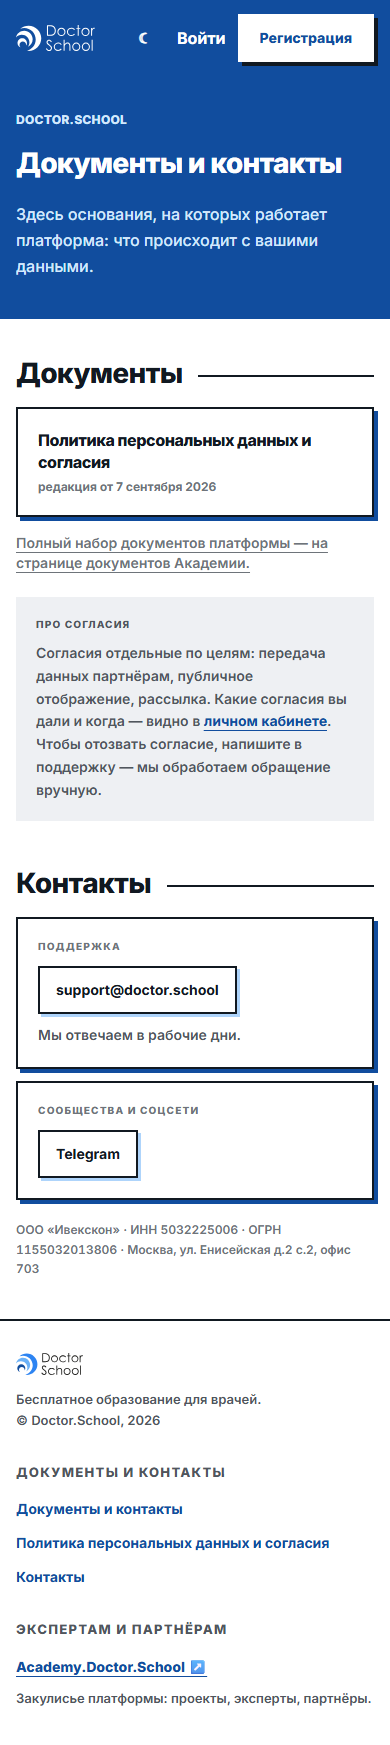
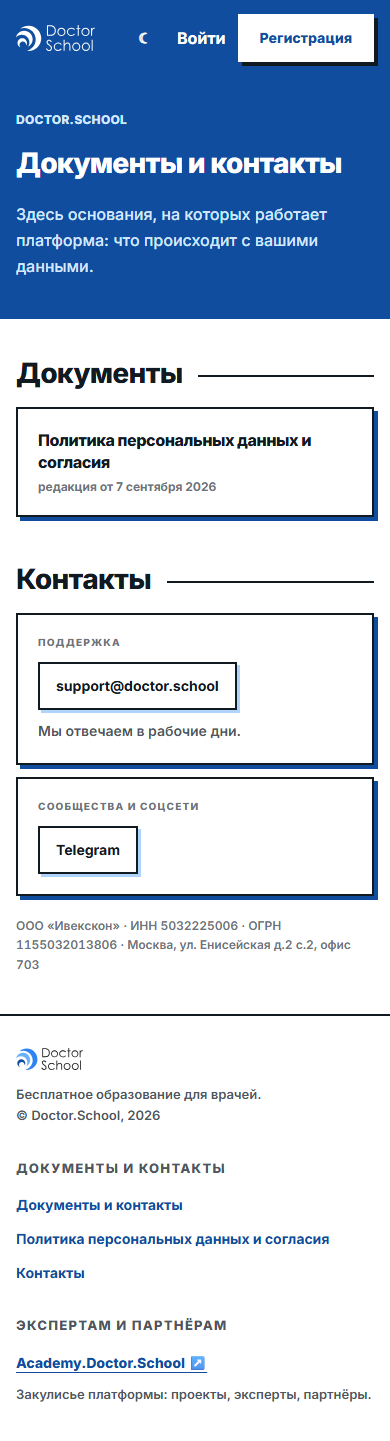
fix(1967): 028 — drop the Academy caption (EARS-6 rewritten) and the consents block per owner Stage-B round 1
The owner drove http://localhost:3404/documents on 2026-09-07 and rejected two
blocks of the doctor documents surface:

1. the closing caption «Полный набор документов платформы — на странице
   документов Академии.» contradicts the single-Academy-link rule (REQ-24) —
   the footer link is the only crossing the storefront gets;
2. the «Про согласия» explainer lies — nothing about consents is visible in the
   cabinet in this release, and the page should not invite a withdrawal.

EARS-6 is rewritten INLINE (EN + RU, scenario, design note): the clause outlived
its premise and the decision is not in production, so it is replaced rather than
amended. It now states the list carries NO caption or link to the Academy, and
its test keeps the EARS-6 id asserting that absence. REQ-24's third placement is
withdrawn across the two-site-ia brief, canvas reconciliation and functional map,
and 028-product records the reversal.

The canvas `design-source/doctor-docs.dc.html` is untouched — the owner's live
verdict supersedes what it draws at L139 and in `d-docs · согласия`.

UI evidence re-captured against a warm doctor standalone stand (:3404, api
:3400): 14/14 driver checks pass.

Refs #1967
Claude-Session: https://claude.ai/code/session_01E8h4jBnktxDeLbZ8io1Nej

diff --git a/apps/doctor/app/(storefront)/documents/page.tsx b/apps/doctor/app/(storefront)/documents/page.tsx
@@ -1,5 +1,4 @@
 import type { Metadata } from "next";
-import NextLink from "next/link";
 
 import { listDocuments } from "@ds/legal-content";
 import {
@@ -12,7 +11,6 @@ import { LegalDocumentList } from "@ds/design-system/legal-document";
 import { ContactChip } from "@ds/design-system/contact-chip";
 
 import { SectionHeading } from "@/components/section-heading";
-import { academyHref } from "@/lib/academy";
 import {
   CONTACT_CHANNELS,
   REQUISITES_LINE,
@@ -40,16 +38,12 @@ export const metadata: Metadata = {
 };
 
 /**
- * EARS-6, verbatim from the canvas (L139). It is the THIRD and last placement
- * REQ-24 allows for an Academy crossing on this storefront (the footer link,
- * «Стать экспертом», this caption) — which is also why the canvas third contacts
- * card «Клиникам и организациям», a fourth Academy link, is not rendered below.
- * The destination is the Academy documents list shipping in #1968, this wave.
+ * EARS-6 — this list carries NO caption and NO link to the Academy documents
+ * page. The owner's Stage-B verdict (2026-09-07) is that the storefront keeps
+ * exactly ONE Academy crossing, the footer link (REQ-24): a second exit from
+ * this page contradicts it, so the caption the canvas drew at L139 is
+ * superseded by that live decision and is not rendered.
  */
-const ACADEMY_CAPTION =
-  "Полный набор документов платформы — на странице документов Академии.";
-
-const ACADEMY_DOCUMENTS_HREF = academyHref("/documents");
 
 interface PolicyRows {
   readonly rows: LegalDocumentNeighbour[];
@@ -134,45 +128,6 @@ export default function DoctorDocumentsPage() {
           ) : (
             <LegalDocumentList items={rows} data-testid="documents-list" />
           )}
-
-          <p className="mt-4 text-sm font-semibold text-faint">
-            <a
-              data-testid="documents-academy-caption"
-              href={ACADEMY_DOCUMENTS_HREF}
-              target="_blank"
-              rel="noopener noreferrer"
-              className="underline underline-offset-4 hover:text-primary-action focus-visible:text-primary-action"
-            >
-              {ACADEMY_CAPTION}
-            </a>
-          </p>
-
-          {/* «Про согласия» — an explanation, not a control (canvas
-              `d-docs · согласия`): this surface never toggles a consent. */}
-          <div
-            data-testid="documents-consents-note"
-            className="mt-6 bg-section p-5"
-          >
-            {/* `text-muted-foreground`, not the canvas `inkFaint`: on the grey
-                plate that faint tone fails WCAG AA contrast (axe
-                `color-contrast`), and the fix belongs to the surface, not to
-                the scan (EARS-15). */}
-            <p className="mb-2.5 text-2xs font-extrabold tracking-micro text-muted-foreground uppercase">
-              Про согласия
-            </p>
-            <p className="max-w-prose text-sm leading-relaxed font-semibold text-muted-foreground">
-              Согласия отдельные по целям: передача данных партнёрам, публичное
-              отображение, рассылка. Какие согласия вы дали и когда — видно в{" "}
-              <NextLink
-                href="/account"
-                className="font-bold text-primary-action underline underline-offset-4"
-              >
-                личном кабинете
-              </NextLink>
-              . Чтобы отозвать согласие, напишите в поддержку — мы обработаем
-              обращение вручную.
-            </p>
-          </div>
         </section>
 
         <section id="contacts" aria-labelledby="contacts-heading">

diff --git a/apps/doctor/app/(storefront)/documents/page.test.tsx b/apps/doctor/app/(storefront)/documents/page.test.tsx
@@ -103,20 +103,29 @@ describe("028 #1967: the doctor documents index", () => {
     expect(html).not.toMatch(/Лицензи/i);
   });
 
-  it("028 EARS-6: the list closes with the Academy documents caption, linking to the Academy page", () => {
+  it("028 EARS-6: the list carries no caption and no link to the Academy documents page", () => {
     const html = renderToStaticMarkup(<DoctorDocumentsPage />);
 
-    expect(html).toContain(
+    expect(html).not.toContain(
       "Полный набор документов платформы — на странице документов Академии.",
     );
-    expect(html).toContain('href="https://academy.doctor.school/documents"');
-    // REQ-24 allows three Academy placements on this storefront and the footer
-    // owns one of them; this page contributes exactly ONE, not the canvas
-    // «Клиникам и организациям» card as well.
-    const crossings = html.match(/academy\.doctor\.school/g) ?? [];
-    expect(crossings, "Academy crossings contributed by the page").toHaveLength(
-      1,
-    );
+    expect(html).not.toContain('data-testid="documents-academy-caption"');
+    // REQ-24 keeps exactly ONE Academy crossing on this storefront and the
+    // footer owns it (owner Stage-B verdict, 2026-09-07): this page contributes
+    // none — neither the caption nor the canvas «Клиникам и организациям» card.
+    expect(html).not.toContain("academy.doctor.school");
+  });
+
+  it("028 #1967: the index carries no «Про согласия» explainer", () => {
+    const html = renderToStaticMarkup(<DoctorDocumentsPage />);
+
+    // The canvas `d-docs · согласия` block claimed consents are visible in the
+    // cabinet and invited a withdrawal by support ticket. Neither is true of
+    // this release, so the owner's Stage-B verdict (2026-09-07) drops the block
+    // rather than softening its copy.
+    expect(html).not.toContain('data-testid="documents-consents-note"');
+    expect(html).not.toContain("Про согласия");
+    expect(html).not.toContain('href="/account"');
   });
 
   it("028 EARS-12: an empty document set renders no rows and no placeholder", () => {

diff --git a/apps/doctor/e2e/documents.spec.ts b/apps/doctor/e2e/documents.spec.ts
@@ -35,19 +35,19 @@ test.describe("028 V-3: documents index and document page", () => {
     );
   });
 
-  test("028 EARS-6: the index closes with the Academy documents caption", async ({
+  test("028 EARS-6: the index carries no Academy caption and no Academy link", async ({
     page,
   }) => {
     await page.goto("/documents");
 
-    const caption = page.getByTestId("documents-academy-caption");
-    await expect(caption).toHaveText(
-      "Полный набор документов платформы — на странице документов Академии.",
-    );
-    await expect(caption).toHaveAttribute(
-      "href",
-      "https://academy.doctor.school/documents",
-    );
+    await expect(page.getByTestId("documents-academy-caption")).toHaveCount(0);
+    // The shell footer link is the ONE Academy crossing REQ-24 allows, so the
+    // scope is the page body: `main` must contribute no second exit.
+    await expect(page.locator('main a[href*="academy.doctor.school"]')).toHaveCount(0);
+    await expect(page.locator('footer a[href*="academy.doctor.school"]')).toHaveCount(1);
+    // The «Про согласия» explainer went with it (owner Stage-B, 2026-09-07):
+    // nothing on this surface describes or offers to withdraw a consent.
+    await expect(page.getByTestId("documents-consents-note")).toHaveCount(0);
   });
 
   test("028 EARS-7: opening the policy from the index shows it and both back links return to the list", async ({

diff --git a/apps/docs/content/specs/features/028-legal-pages/028-product-ru.md b/apps/docs/content/specs/features/028-legal-pages/028-product-ru.md
@@ -137,7 +137,7 @@ lang: ru
 - **Строка ссылки на документ** (`d-docs · документы`): название + необязательный чип «обновлено» + пояснение + «редакция от <дата>» + →. Видимый читателю маркер версии — это дата редакции плюс этот чип; числовой номер версии не нарисован.
 - **Пояснение про согласия** (`d-docs · согласия`, «Про согласия»): согласия раздельны по назначению — данные партнёрам, публичный показ, рассылки, — а что и когда дано, видно в личном кабинете, на который блок ссылается. Только пояснение; согласиями на этой странице не управляют.
 - **Контакты — каналы, без формы** (`d-docs · контакты` / `a-docs · контакты`): `support@doctor.school` / `academy@doctor.school` как mailto плюс чипы Telegram / ВКонтакте / YouTube. На странице врача есть выход «клиникам и организациям → Academy.Doctor.School ↗»; `a-docs · выходы` несёт два выхода CJM (Инвесторам → `#a-invest`, Экспертам → `#a-apply`).
-- **Список документов врача заканчивается выходом на страницу документов Академии (решено).** В решённом варианте Б канвас врача закрывает список (`d-docs · документы`) подписью «Полный набор документов платформы — на странице документов Академии.»: хост врача показывает только свою проекцию, а полный общий юридический набор читается на странице Академии. На канвасе Академии парной подписи нет. Эта подпись — **третье разрешённое размещение врач→Академия**, наряду со ссылкой в подвале витрины и «Стать экспертом» в кабинете — REQ-24 дополняется этим же коммитом; подпись строится как нарисовано.
+- **В списке документов врача нет выхода на Академию (решено).** Канвас врача закрывает список (`d-docs · документы`) подписью со ссылкой на страницу документов Академии — и эта подпись **не строится**: по живому решению владельца у витрины остаётся **ровно одна** ссылка на Академию, в футере (REQ-24), и второй выход с этой страницы ей противоречит. На канвасе Академии парной подписи тоже нет. Поэтому REQ-24 сохраняет два размещения — ссылку в подвале витрины и «Стать экспертом» в кабинете.
 - **Реквизиты — одна бледная табличная строка** внизу страницы (`· реквизиты`): «<юрлицо> · ИНН … · Лицензия на образовательную деятельность № …». На канвасе стоит юрлицо-заглушка; содержимое — решение владельца, записанное выше (ООО «Ивекскон»), вёрстка — решение канваса. В R1 строка выглядит как «<юрлицо> · ИНН … · ОГРН … · <адрес>»; номер лицензии присоединяется к ней во втором срезе, когда решится Q-31.
 - **Блок лицензии — это строка списка документов**, а не отдельная панель, плюс номер лицензии в строке реквизитов. Пояснение на канвасе врача: «На её основании Doctor.School выдаёт сертификаты и передаёт сведения в НМО»; комментарий на экране Академии: `Q-31: лицензиат и эмитент — сама платформа, без оговорок`. Формулировка Q-31 остаётся вводом владельца/юриста; вёрстка решена. Отложено во второй срез (владелец, 2026-09-06: «Данных лицензии нет, не выводим её сейчас!»).
 - **Точка входа в подвале есть в обеих оболочках.** `d-docs · футер` ссылается на «Пользовательское соглашение», «Политику обработки персональных данных» и «Контакты»; `a-docs · футер` несёт навигационную ссылку «Документы и контакты» и «doctor.school — врачам». В R1 подвал ссылается только на то, что в R1 опубликовано: ссылка на «Пользовательское соглашение» появляется вместе со своим документом, во втором срезе.

diff --git a/apps/docs/content/specs/features/028-legal-pages/028-product.md b/apps/docs/content/specs/features/028-legal-pages/028-product.md
@@ -137,7 +137,7 @@ What is being replaced is not a working surface. The legacy site's legal routes 
 - **Document-link row unit** (`d-docs · документы`): title + optional «обновлено» chip + note + «редакция от <дата>» + →. The reader-visible version marker IS the edition date plus that chip; no numeric version number is drawn.
 - **Consents explainer** (`d-docs · согласия`, «Про согласия»): consents are separate by purpose — partner data, public display, mailing — and what was given and when is visible in the cabinet, which the block links. Explanation only; consents are not managed on this page.
 - **Contacts are channels, no form** (`d-docs · контакты` / `a-docs · контакты`): `support@doctor.school` / `academy@doctor.school` as mailto, plus Telegram / ВКонтакте / YouTube chips. The doctor page carries a «клиникам и организациям → Academy.Doctor.School ↗» exit; `a-docs · выходы` carries the two CJM exits (Инвесторам → `#a-invest`, Экспертам → `#a-apply`).
-- **The doctor documents list ends with an exit to the Academy documents page (decided).** In the decided variant Б the doctor canvas closes the list (`d-docs · документы`) with the caption «Полный набор документов платформы — на странице документов Академии.»: the doctor host lists only its own projection, and the full shared legal set is read on the Academy page. The Academy canvas draws no counterpart. This caption is the **third allowed doctor→Academy placement**, alongside the storefront footer link and «Стать экспертом» in the cabinet — REQ-24 is amended in the same commit to name it; build the caption as drawn.
+- **The doctor documents list carries no exit to the Academy (decided).** The doctor canvas closes the list (`d-docs · документы`) with a caption naming the Academy documents page, and that caption is **not built**: the owner's live verdict is that the storefront keeps **exactly one** Academy link, the footer one (REQ-24), so a second exit from this page contradicts it. The Academy canvas draws no counterpart either. REQ-24 therefore stays at its two placements — the storefront footer link and «Стать экспертом» in the cabinet.
 - **Requisites are one faint tabular line** at the foot of the page (`· реквизиты`): «<юрлицо> · ИНН … · Лицензия на образовательную деятельность № …». The canvas placeholder names another entity; the CONTENT is the owner decision recorded above (ООО «Ивекскон»), the LAYOUT is the canvas decision. In R1 the line reads «<юрлицо> · ИНН … · ОГРН … · <адрес>» only; the licence number joins it in slice 2 once Q-31 is settled.
 - **The licence block is a documents-list row**, not a separate panel — plus the licence number in the requisites line. Canvas note (doctor): «На её основании Doctor.School выдаёт сертификаты и передаёт сведения в НМО»; canvas comment on the Academy screen: `Q-31: лицензиат и эмитент — сама платформа, без оговорок`. The Q-31 wording stays an owner/lawyer input; the layout is settled. Deferred to slice 2 (owner, 2026-09-06: «Данных лицензии нет, не выводим её сейчас!»).
 - **Both shells carry a footer entry point.** `d-docs · футер` links «Пользовательское соглашение», «Политика обработки персональных данных» and «Контакты»; `a-docs · футер` carries the «Документы и контакты» nav link and «doctor.school — врачам». In R1 the footer links only what R1 publishes — the «Пользовательское соглашение» link appears with its document, in slice 2.

diff --git a/apps/docs/content/specs/features/028-legal-pages/028-requirements-ru.md b/apps/docs/content/specs/features/028-legal-pages/028-requirements-ru.md
@@ -70,7 +70,7 @@ lang: ru
 - **EARS-3** (`realizes: US-2`) — ПОКА действует слайс 1, СИСТЕМА ДОЛЖНА показывать ровно одну запись в списке документов на обоих хостах — «Политика персональных данных и согласия» — и НЕ ДОЛЖНА показывать строки лицензии, «Пользовательского соглашения» или «Правил начисления очков», нарисованные на канвасах.
 - **EARS-4** (`realizes: US-12`) — СИСТЕМА ДОЛЖНА рендерить блок контактов с `support@doctor.school` (врач) или `academy@doctor.school` (Академия) как ссылку `mailto:` плюс чипы Telegram/ВКонтакте/YouTube, с подписями точно как нарисовано на канвасе этого хоста.
 - **EARS-5** (`realizes: US-9, US-10`) — СИСТЕМА ДОЛЖНА рендерить одну строку реквизитов на обоих хостах вида «ООО «Ивекскон» · ИНН <…> · ОГРН <…> · <юридический адрес>», без номера лицензии в R1.
-- **EARS-6** (`realizes: US-3`) — СИСТЕМА ДОЛЖНА завершать список документов врача подписью «Полный набор документов платформы — на странице документов Академии.» со ссылкой на страницу документов Академии (REQ-24, третье размещение); список Академии НЕ ДОЛЖЕН содержать встречную подпись.
+- **EARS-6** (`realizes: US-3`) — СИСТЕМА НЕ ДОЛЖНА размещать в списке документов врача никакой подписи или ссылки на Академию: единственный переход витрины в Академию — ссылка в футере (REQ-24), и второй выход с этой страницы ему противоречит. Список Академии так же НЕ ДОЛЖЕН содержать встречной подписи на витрину врача.
 - **EARS-7** (`realizes: US-4, US-13, US-14`) — КОГДА посетитель открывает собственный URL документа, СИСТЕМА ДОЛЖНА отрендерить его заголовок, «редакция от <дата>», оглавление (прилипающая левая колонка при ≥1440px, свёрнутое над текстом при ≤390px — `tocVariant: А`), тело, ссылку назад к списку документов и список «Другие документы» с остальными опубликованными документами.
 - **EARS-8** (`realizes: US-1, US-2, US-7`) — КОГДА врач открывает ссылку согласия рядом с чекбоксом регистрации 021, СИСТЕМА ДОЛЖНА открыть страницу именно этого согласия (короткий вариант `doc`) на том же хосте, дословно текст чекбокса, не теряя уже заполненную форму регистрации.
 - **EARS-9** (`realizes: US-2`) — СИСТЕМА ДОЛЖНА публиковать каждый из трёх текстов согласий 021 (декларация медработника, согласие на передачу данных партнёрам, согласие на рассылку) и согласие на распространение фото/видео как собственную страницу документа, никогда как строку в списке.

diff --git a/apps/docs/content/specs/product/two-site-ia/brief-ru.md b/apps/docs/content/specs/product/two-site-ia/brief-ru.md
@@ -67,7 +67,7 @@ lang: ru
 
 - **Две витрины, одна платформа.** `doctor.school` → новое приложение `apps/doctor`; `academy.doctor.school` → `apps/portal`, сужённый до закулисья; `admin.doctor.school` → `apps/admin`. Один NestJS-бэкенд, одна схема Postgres, один Zitadel — ни бэкенда, ни базы, ни тенанта идентичности на витрину (ADR-0015 §1–2). `apps/promo` вливается в `apps/doctor`: его маркетинговые маршруты переезжают сегментами, чтобы один хост владел одной информационной архитектурой, а вывод старого приложения из эксплуатации — отслеживаемый инженерный деливерабл волны 1, а не молчаливое удаление (ADR-0015 §2).
 - **Один человек — одна учётка на обеих витринах.** Роли (врач, эксперт, спикер, сотрудник организации) — атрибуты этой учётки, а не отдельные входы; членство в организации — отзываемая связь (ADR-0016 §1–3, OWD-1/OWD-8). Сессии — host-only cookie на каждом хосте, непрерывность между хостами через OIDC silent re-auth.
-- **След Академии у врача ограничен тремя фиксированными местами** (REQ-24, NG-2) — ссылка в подвале витрины, «Стать экспертом» в кабинете и (028) подпись списка документов на `#d-docs`, называющая страницу документов Академии. Академия не становится вторым каталогом для врача; витрина врача не открывает закулисье.
+- **След Академии у врача ограничен двумя фиксированными местами** (REQ-24, NG-2) — ссылка в подвале витрины и «Стать экспертом» в кабинете. Список документов 028 не добавляет третьего: подпись с выходом на страницу документов Академии нарисована на `#d-docs`, но не строится. Академия не становится вторым каталогом для врача; витрина врача не открывает закулисье.
 - **Каждая сущность объявляет принадлежность витрине** — `врач` / `академия` / `обе` / `только админка` (ADR-0016 §8). Именно это делает вопрос «где это показывается» решаемым на уровне фичи, а не экрана.
 - **Проект — единственный сквозной контейнер**; школа, курс, подкаст и событие — его результаты (ADR-0016 §4, OWD-9). Начисления, роли участников и отчётность держатся на оси проекта.
 - **Одна страница события на обе витрины** — онлайн, офлайн и гибрид живут на одной странице (**решение D-4**), отрисованной и на витрине врача, и в Академии, поверх уже сданных движков событий (004/005/006/014).

diff --git a/apps/docs/content/specs/features/028-legal-pages/028-requirements-en.md b/apps/docs/content/specs/features/028-legal-pages/028-requirements-en.md
@@ -70,7 +70,7 @@ Documents are Markdown files in the new shared package `packages/legal-content/`
 - **EARS-3** (`realizes: US-2`) — WHERE slice 1 is in force, THE SYSTEM SHALL list exactly one entry on both hosts' documents list — «Политика персональных данных и согласия» — and SHALL NOT list the licence, «Пользовательское соглашение» or «Правила начисления очков» rows drawn on the canvases.
 - **EARS-4** (`realizes: US-12`) — THE SYSTEM SHALL render the contacts block with `support@doctor.school` (doctor) or `academy@doctor.school` (Academy) as a `mailto:` link plus Telegram/ВКонтакте/YouTube chips, each caption exactly as drawn on that host's canvas.
 - **EARS-5** (`realizes: US-9, US-10`) — THE SYSTEM SHALL render one requisites line on both hosts reading «ООО «Ивекскон» · ИНН <…> · ОГРН <…> · <юридический адрес>», with no licence number in R1.
-- **EARS-6** (`realizes: US-3`) — THE SYSTEM SHALL close the doctor documents list with the caption «Полный набор документов платформы — на странице документов Академии.», linking to the Academy documents page (REQ-24, third placement); the Academy list SHALL carry no counterpart caption.
+- **EARS-6** (`realizes: US-3`) — THE SYSTEM SHALL NOT place any caption or link to the Academy on the doctor documents list: the storefront's single Academy crossing is the footer link (REQ-24), and a second exit from this page would contradict it. The Academy list SHALL likewise carry no counterpart caption to the doctor storefront.
 - **EARS-7** (`realizes: US-4, US-13, US-14`) — WHEN a visitor opens a document's own URL, THE SYSTEM SHALL render its title, «редакция от <дата>», a table of contents (sticky left column at ≥1440px, collapsed above the body at ≤390px — `tocVariant: А`), the body, a back link to the documents list, and a «Другие документы» list of the remaining published documents.
 - **EARS-8** (`realizes: US-1, US-2, US-7`) — WHEN a doctor opens a consent link next to a 021 registration checkbox, THE SYSTEM SHALL open that specific consent's document page (short `doc` variant) in the same host, word for word the checkbox's text, without discarding the doctor's in-progress registration form.
 - **EARS-9** (`realizes: US-2`) — THE SYSTEM SHALL publish each of the three 021 consent texts (medical-worker declaration, partner-data-sharing consent, marketing consent) and the photo/video distribution consent as its own document page, never as an index row.

diff --git a/apps/docs/content/specs/product/two-site-ia/brief.md b/apps/docs/content/specs/product/two-site-ia/brief.md
@@ -67,7 +67,7 @@ lang: en
 
 - **Two storefronts, one platform.** `doctor.school` → the new `apps/doctor` app; `academy.doctor.school` → `apps/portal`, narrowed to backstage; `admin.doctor.school` → `apps/admin`. One NestJS API, one Postgres schema, one Zitadel — no per-storefront backend, database or identity tenant (ADR-0015 §1–2). `apps/promo` folds into `apps/doctor`: its marketing routes move in as route segments so that one host owns one information architecture, and retiring it is a tracked wave-1 engineering deliverable, not a silent deletion (ADR-0015 §2).
 - **One person, one account across both hosts.** Roles (doctor, expert, speaker, organisation member) are attributes of that account, not separate logins; organisation membership is a revocable link (ADR-0016 §1–3, OWD-1/OWD-8). Sessions are host-only cookies per host, with OIDC silent re-auth for continuity between them.
-- **The doctor's trace of the Academy is limited to three fixed placements** (REQ-24, NG-2) — the storefront footer link, «Стать экспертом» in the cabinet, and (028) the documents-list caption on `#d-docs` naming the Academy documents page. The Academy never becomes a second doctor catalogue; the doctor storefront never exposes backstage.
+- **The doctor's trace of the Academy is limited to two fixed placements** (REQ-24, NG-2) — the storefront footer link and «Стать экспертом» in the cabinet. The 028 documents list adds none: a caption exiting to the Academy documents page was drawn on `#d-docs` and is not built. The Academy never becomes a second doctor catalogue; the doctor storefront never exposes backstage.
 - **Every entity declares its storefront belonging** — `doctor` / `academy` / `both` / `admin-only` (ADR-0016 §8). That is what makes «where is this shown» answerable per feature instead of per screen.
 - **Project is the single cross-cutting container**; school, course, podcast and event are its results (ADR-0016 §4, OWD-9). Accruals, participant roles and reporting all hang off the project axis.
 - **One event page serves both storefronts** — online, offline and hybrid share a single page (owner decision D-4), rendered on the doctor storefront and on the Academy, backed by the shipped event engines (004/005/006/014).

diff --git a/apps/docs/content/specs/product/two-site-ia/canvas-reconciliation-ru.md b/apps/docs/content/specs/product/two-site-ia/canvas-reconciliation-ru.md
@@ -117,7 +117,7 @@ REQ-138 делит фасеты на две волны: вид «неделя/м
 
 **D-2. «Мои события» — у врача и в Академии это один раздел или два?**
 Сейчас канвас «мои события» — поверхность Академии, по нему в полёте собирается фича 014. В R4 «Мои события» стоят в кабинете врача на doctor.school, с билетом/QR для офлайна и чекинами НМО.
-Почему важно: REQ-24 разрешает врачу закрытый набор из трёх выходов на Академию (ссылка в футере витрины, «Стать экспертом» в кабинете, подпись в списке документов 028) — если раздел остаётся в обоих местах, у врача появляется четвёртый, неразрешённый след закулисья.
+Почему важно: REQ-24 разрешает врачу закрытый набор из двух выходов на Академию (ссылка в футере витрины, «Стать экспертом» в кабинете) — если раздел остаётся в обоих местах, у врача появляется третий, неразрешённый след закулисья.
 Что меняет ответ: либо раздел уезжает на витрину врача целиком, и канвас Академии снимается после 014, либо это два разных раздела для двух разных аудиторий и оба канваса живут.
 
 **Решение (владелец):** «Мои события — функция в обоих фронтах. И в Академии, и в Докторе можно записаться на мероприятие. Быстрый способ его найти — через Мои события в ЛК. На обоих фронтах.»

diff --git a/apps/docs/content/specs/product/two-site-ia/functional-map-ru.md b/apps/docs/content/specs/product/two-site-ia/functional-map-ru.md
@@ -271,7 +271,7 @@ backend/shared · `backend-only` · экранов нет (форма участ
 | REQ-21  | 025           | Единицы контента могут стоить баллов                                                                                                                     |
 | REQ-22  | 037, 022      | Мягкая верификация, документы всегда доступны в ЛК                                                                                                       |
 | REQ-23  | 021, 022      | Почта+пароль, профиль по мотивации                                                                                                                       |
-| REQ-24  | 017, 022, 028 | Единственная ссылка на Академию (футер, «Стать экспертом», подпись списка документов)                                                                    |
+| REQ-24  | 017, 022      | Единственная ссылка на Академию (футер витрины, «Стать экспертом» в кабинете)                                                                            |
 | REQ-25  | 040           | Контент заводит команда вручную                                                                                                                          |
 | REQ-26  | 040           | Медицинская экспертиза контента                                                                                                                          |
 | REQ-27  | 040, 033      | Целевая картина: заявка → методист/продюсер → публикация                                                                                                 |

diff --git a/apps/docs/content/specs/features/028-legal-pages/028-design.md b/apps/docs/content/specs/features/028-legal-pages/028-design.md
@@ -20,7 +20,7 @@ lang: en
 One reading component lives in `packages/design-system` and renders any document: title, «редакция от <дата>», ToC (sticky left at ≥1440px / collapsed above the body at ≤390px per `tocVariant: А`), body, back link, «Другие документы».
 
 - `apps/doctor` and `apps/portal` each add only:
-  - a documents-list route rendering their own projection (which `slug`s appear, in what order, with which captions/exits — EARS-3, EARS-6),
+  - a documents-list route rendering their own projection (which `slug`s appear and in what order — EARS-3; neither host's list carries a caption or exit to the other — EARS-6),
   - a `[slug]` document route that calls the shared component,
   - the contacts + requisites blocks, which are host-specific copy (support email, canvas captions) but the same layout primitive.
 - No app-to-app imports. Neither host imports from the other; both import from `packages/legal-content` and `packages/design-system` only.
